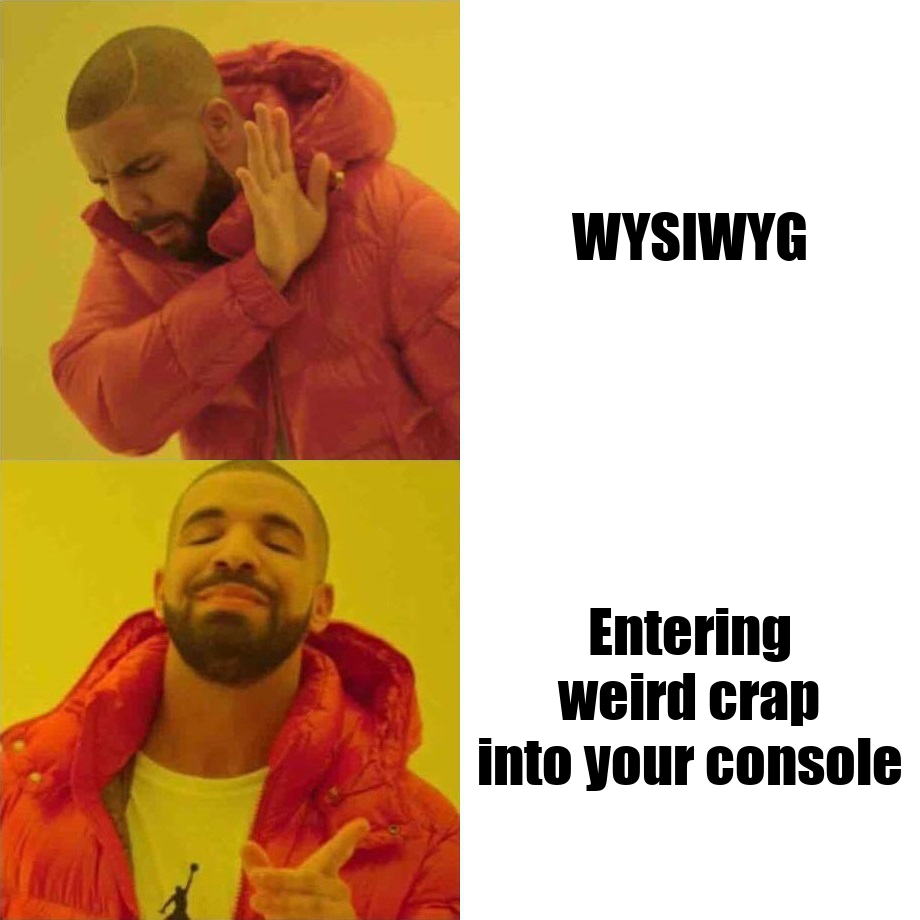
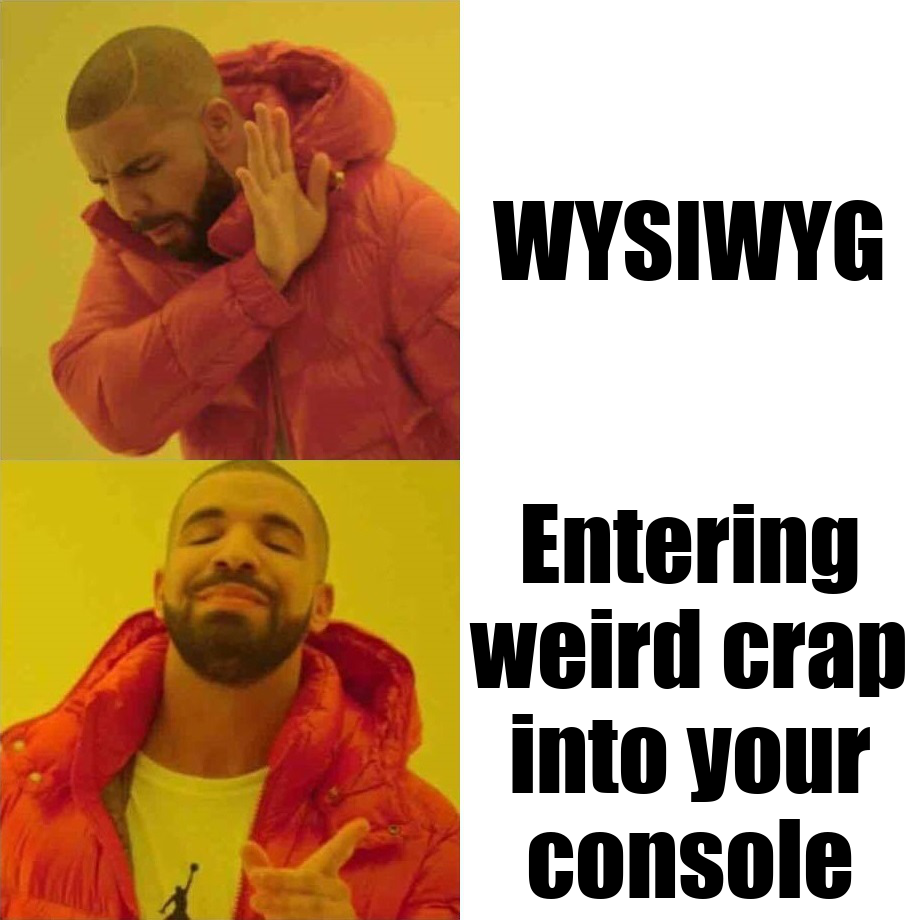
update memes to be open-source

Changed region(s): [[0.487, 0.5478, 1.0, 0.9739], [0.5174, 0.213, 0.9739, 0.3043]]

diff --git a/language_specs.md b/language_specs.md
@@ -19,7 +19,7 @@ For example, the following meme:
 Is properly encoded as:
 
 ```meme
-/M:drake;F::60/T:WYSIWYG:r1/T:Entering weird crap into your console:r2/
+/M:drake/T:WYSIWYG/T:Entering weird crap into your console/
 ```
 
 Where the termination of the M block is emplied by the end of the encoding.
